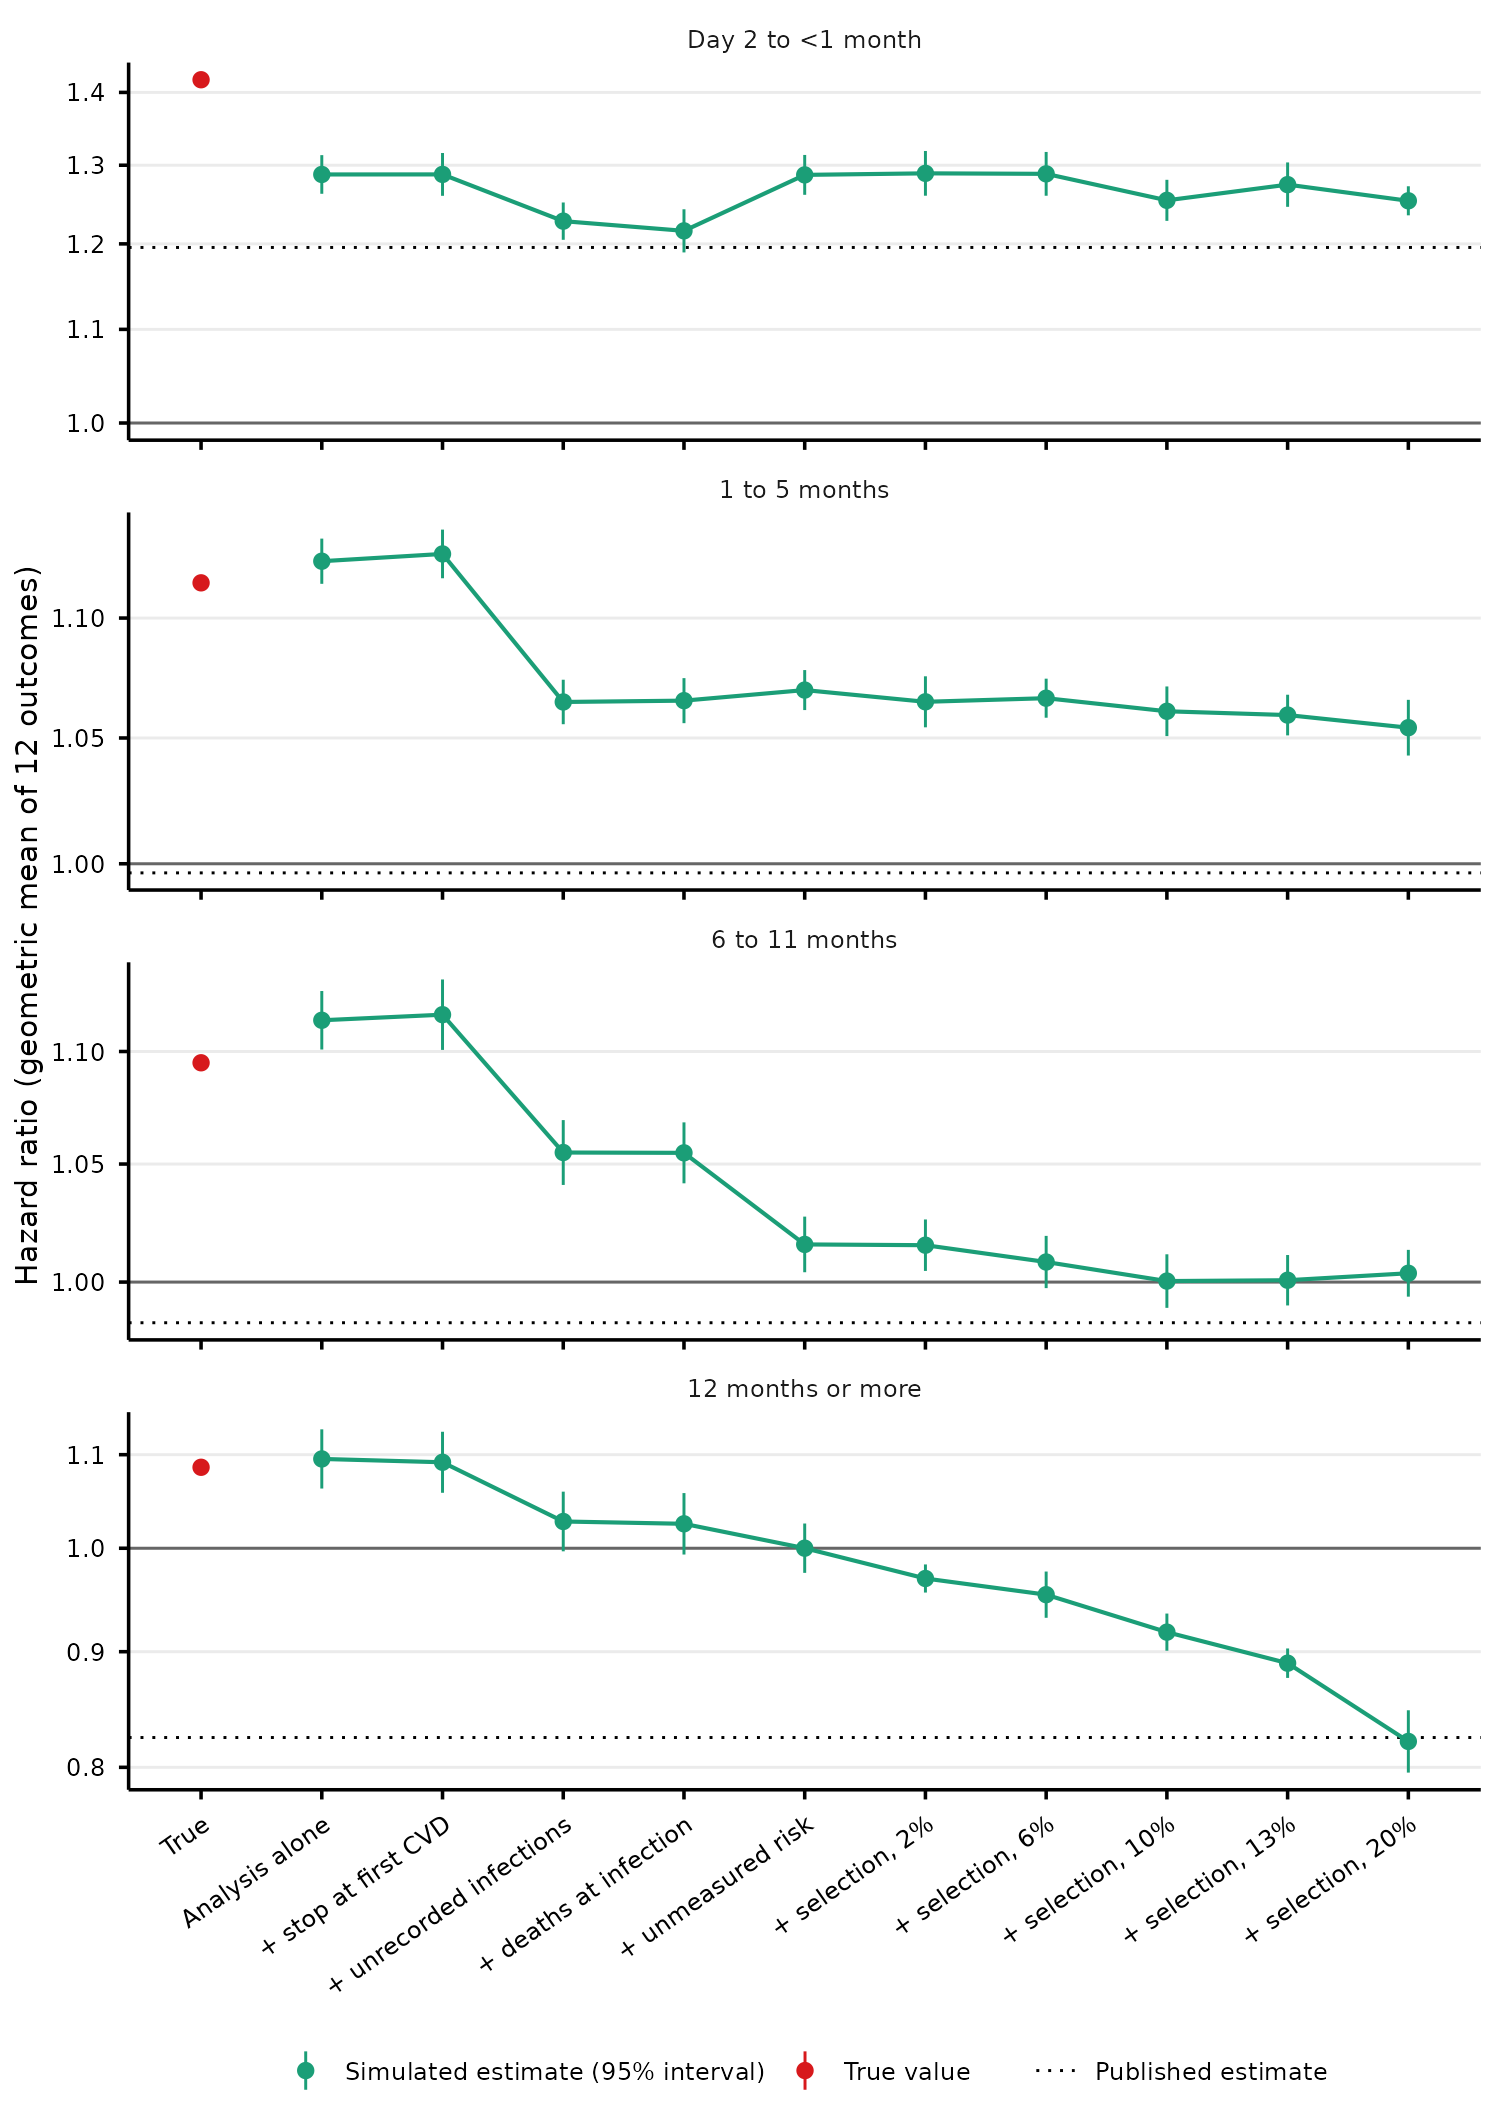
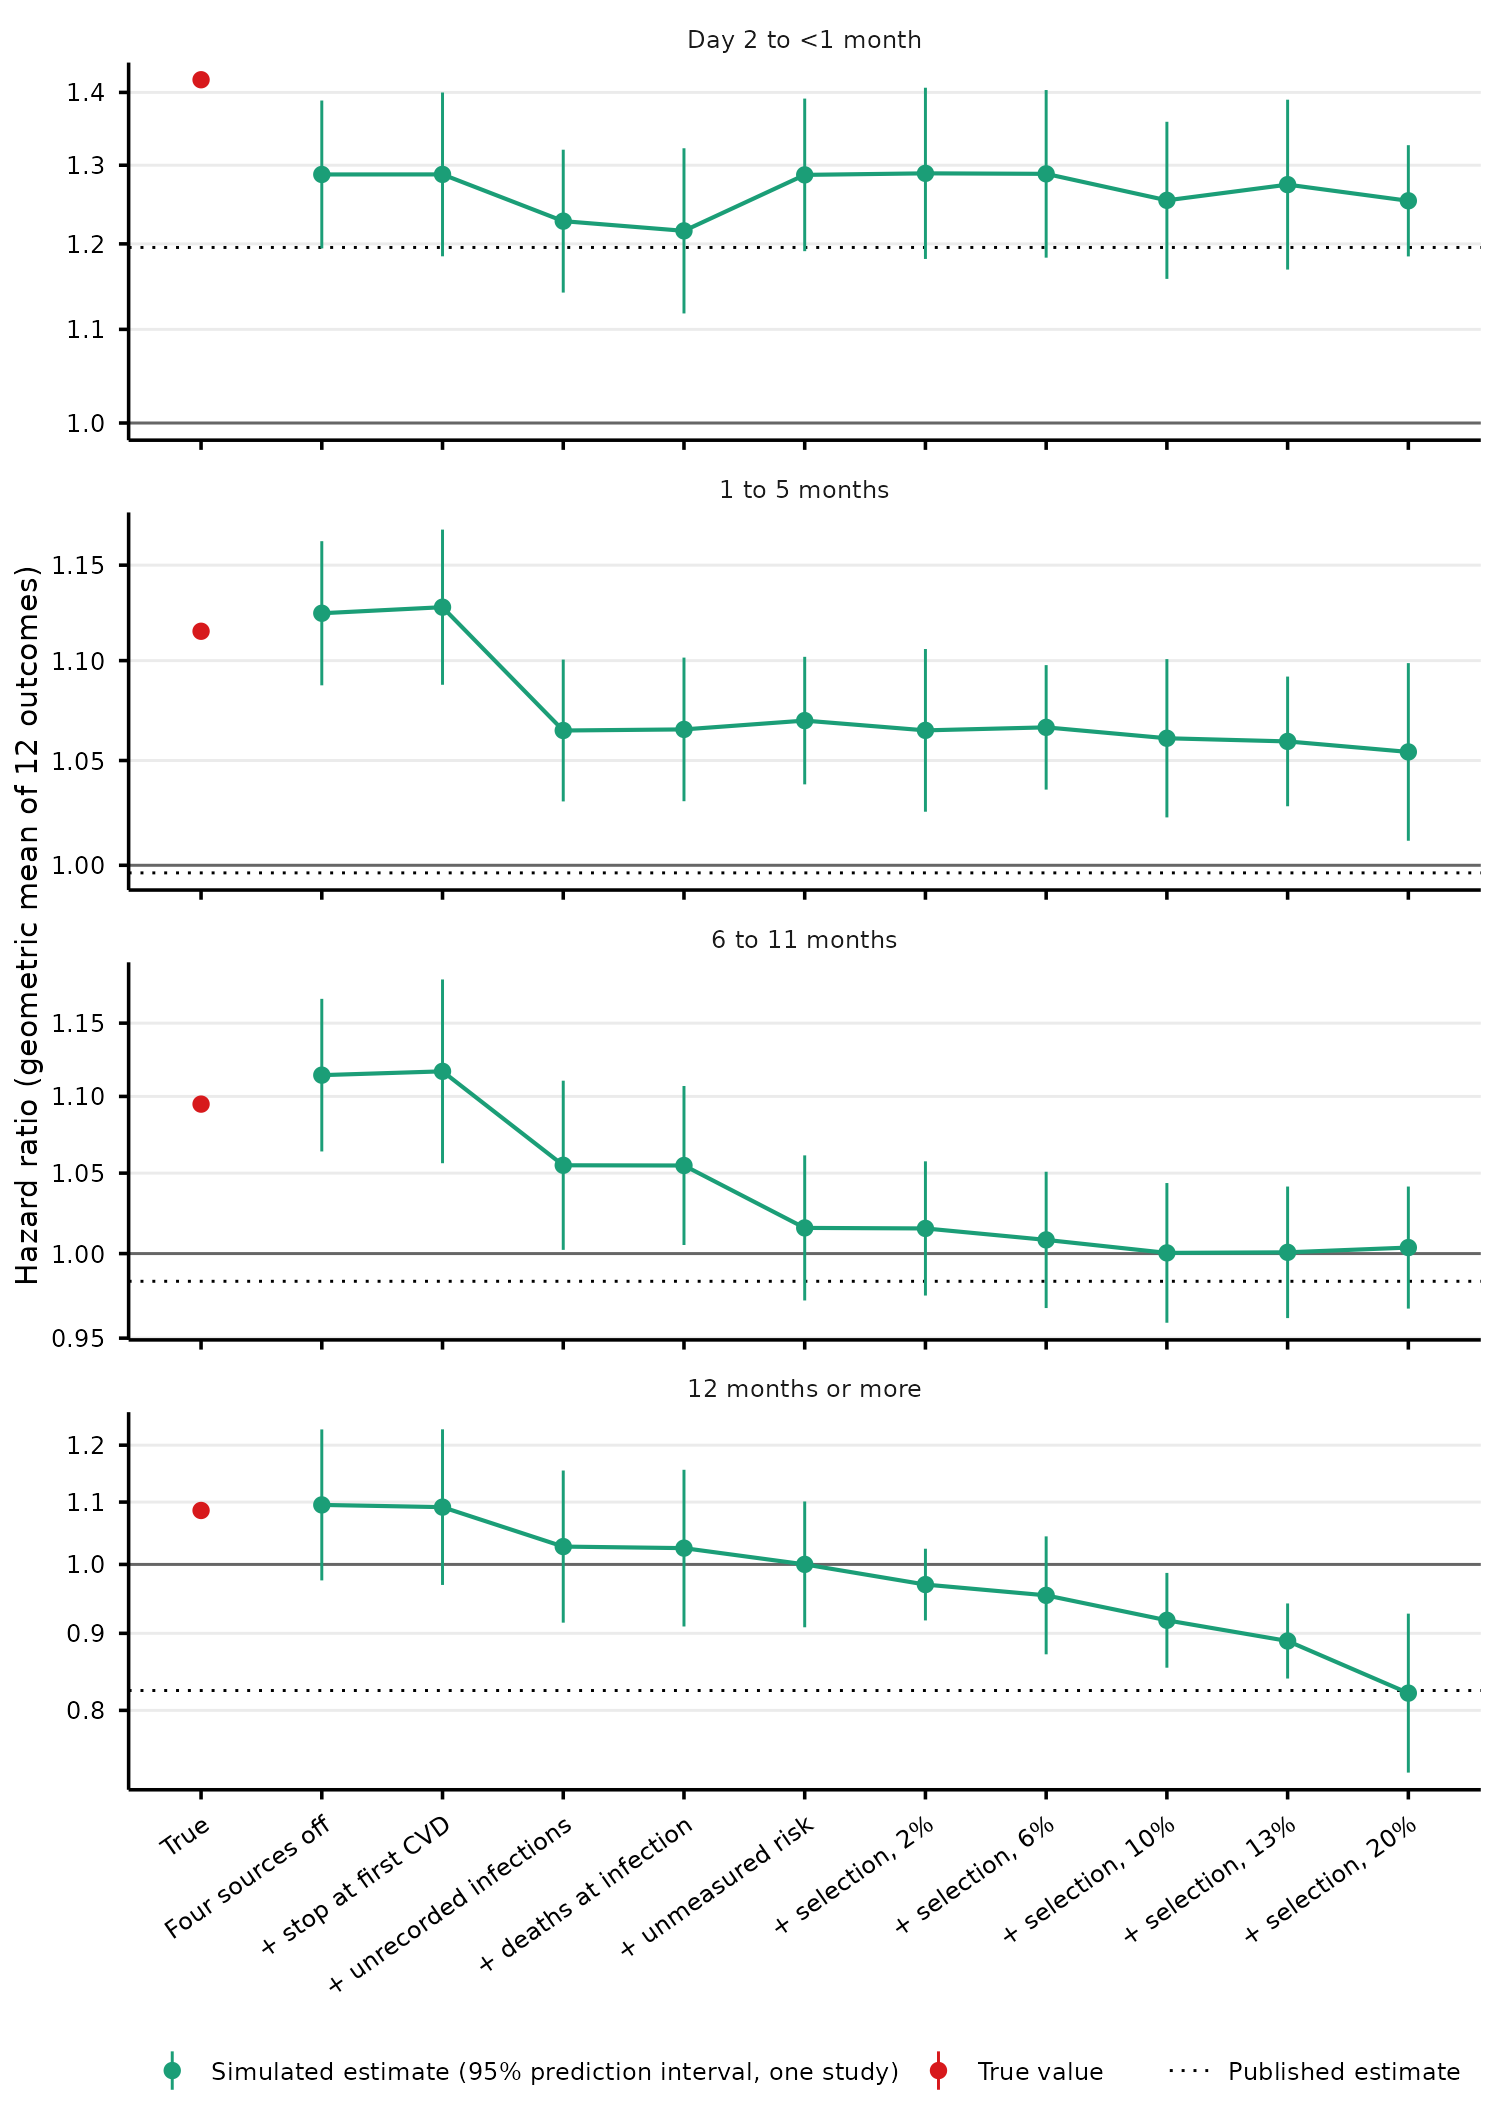
Explain each source of bias with 100-person examples; prediction intervals on the steps
Illustrations.R draws four icon arrays, 100 persons per group, for
selection into early infection, depletion of susceptibles, unrecorded
infections and deaths at infection. The numbers are illustrative; each
example gives the ratio of risks a study would see when the true ratio is
1.20. The README opens "Why the estimates fall below 1" with them. The step
figure of Bias.R now shows 95% prediction intervals for one study, and its
first step is "Four sources off".

diff --git a/README.md b/README.md
@@ -4,7 +4,7 @@
 
 Boyd et al. 2026, “SARS-CoV-2 infection and long-term risk of cardiovascular and renal morbidity” (EHJ Open, doi:10.1093/ehjopen/oeag121), report hazard ratios below 1 for most cardiovascular outcomes from 12 months after infection. Taken as causal, these estimates mean that infection protects against later cardiovascular disease. This repository holds the simulation behind our letter on that paper. In the simulation, infection increases cardiovascular risk, and an approximation of the study design still gives the published estimates.
 
-`Run.R` simulates 10 cohorts of 4,508,489 synthetic persons, one per member of the paper’s cardiovascular cohort. It analyses each cohort as the paper does, and compares the estimates with the published ones. `Norway.R`, a supplement, compares the result with Norwegian national data. `Bias.R` shows what each source of bias contributes. `README.qmd` reads every result in this README from `results/run.rds`, `results/bias.rds` and `results/norway.rds`.
+`Run.R` simulates 10 cohorts of 4,508,489 synthetic persons, one per member of the paper’s cardiovascular cohort. It analyses each cohort as the paper does, and compares the estimates with the published ones. `Norway.R`, a supplement, compares the result with Norwegian national data. `Bias.R` shows what each source of bias contributes. `Illustrations.R` draws four small examples of how each source of bias works. `README.qmd` reads every result in this README from the files that these scripts save in `results/`.
 
 The sections are:
 
@@ -175,21 +175,40 @@ The letter figure is [figures/forest_12m.png](figures/forest_12m.png). It shows 
 
 ## Why the estimates fall below 1
 
-`Bias.R` switches four sources of bias on and off in the simulated cohorts, and analyses each setting as the paper does:
+### How each source of bias works
 
-- **Stopping at the first CVD diagnosis:** the paper stops follow-up for every outcome at a person’s first diagnosis in any of the 15 cardiovascular groups. Off means each outcome is followed to its own first diagnosis.
-- **Unrecorded infections:** infections that testing did not record, which leave infected persons in the comparison group.
-- **Deaths at infection:** more probable at older ages and higher frailty, so they remove high-risk infected persons from follow-up.
-- **Unmeasured risk and selection:** differences in cardiovascular risk between persons of the same age that the analysis cannot see (frailty), and selection of lower-risk persons into infection before the Omicron wave.
+The four examples below use 100 persons per group, and illustrative numbers rather than simulation output. In each, infection multiplies every person’s risk of a CVD diagnosis by 1.20. Over the follow-up, a high-risk person has a 50% risk and a low-risk person a 5% risk. So the true ratio of risks is 1.20 in every example, and each example gives the ratio of risks that a study would see. This is simpler than the hazard ratios of the simulation, but the mechanisms are the same. `Illustrations.R` draws them.
 
-The figure starts from the paper’s analysis with all four sources off, then adds them one at a time. Each point is the geometric mean of the 12 outcomes over the 10 simulated cohorts.
+**Selection into early infection.** If persons at high risk took more care early in the pandemic, fewer of them were infected before the Omicron wave. Infection raises everyone’s risk, but the infected group starts with fewer high-risk persons. The study would see 0.79.
+
+![Selection into early infection](figures/illustration_selection.png)
+
+**Depletion of susceptibles.** Infection brings diagnoses forward, most of all in high-risk persons. A year later, the infected persons who are still free of CVD include fewer high-risk persons than the comparison group does. The study would see 1.15.
+
+![Depletion of susceptibles](figures/illustration_depletion.png)
+
+**Unrecorded infections.** About one third of infections in the Omicron wave were not recorded, so some infected persons stay in the comparison group. In the example, 50 of 150 infections are unrecorded. Their raised risk makes the comparison group look worse. The study would see 1.13.
+
+![Unrecorded infections](figures/illustration_unrecorded.png)
+
+**Deaths at infection.** Infection kills some of the frailest persons before they can be diagnosed. The infected group loses some of its highest-risk persons. The study would see 1.10.
+
+![Deaths at infection](figures/illustration_deaths.png)
+
+**Stopping at the first CVD diagnosis.** The paper stops follow-up for every outcome at a person’s first diagnosis in any of the 15 cardiovascular groups. It removes high-risk persons from both groups, so in the simulation it changes the estimates very little.
+
+### What each source does in the simulation
+
+`Bias.R` switches the four sources of bias on and off in the simulated cohorts, and analyses each setting as the paper does. Unmeasured risk and selection are switched together: frailty is the unmeasured risk, and selection works through it.
+
+The figure starts with the four sources off: the paper’s analysis of a simulated cohort in which all four are switched off. It then adds them one at a time. Each point is the geometric mean of the 12 outcomes over the 10 simulated cohorts. Each bar is the 95% prediction interval for one study of this size.
 
 ![The estimate as the sources of bias are added one at a time, per window](figures/bias_steps.png)
 
 | Step | Day 2 to \<1 month | 1 to 5 months | 6 to 11 months | 12 months or more |
 |:---|---:|---:|---:|---:|
 | True | 1.42 | 1.12 | 1.09 | 1.09 |
-| Analysis alone | 1.29 | 1.12 | 1.11 | 1.10 |
+| Four sources off | 1.29 | 1.12 | 1.11 | 1.10 |
 | \+ stop at first CVD | 1.29 | 1.13 | 1.12 | 1.09 |
 | \+ unrecorded infections | 1.23 | 1.06 | 1.06 | 1.03 |
 | \+ deaths at infection | 1.22 | 1.07 | 1.05 | 1.03 |
@@ -200,9 +219,9 @@ The figure starts from the paper’s analysis with all four sources off, then ad
 | \+ selection, 13% | 1.27 | 1.06 | 1.00 | 0.89 |
 | \+ selection, 20% | 1.25 | 1.05 | 1.00 | 0.82 |
 
-- **12 months or more:** the analysis alone gives about the true value (1.10 against 1.09). Unrecorded infections bring it to 1.03, unmeasured risk to 1.00, and selection to 0.82.
-- **1 to 5 and 6 to 11 months:** the largest step is unrecorded infections (to 1.06 and 1.06). The simulation ends at 1.05 and 1.00, against 1.00 and 0.98 published.
-- **Day 2 to \<1 month:** most of the fall happens in the analysis itself, before any source of bias (1.42 to 1.29).
+- **12 months or more:** with the four sources off, the estimate is about the true value (1.10 against 1.09). Unrecorded infections bring it to 1.03, unmeasured risk to 1.00, and selection to 0.82.
+- **1 to 5 and 6 to 11 months:** the largest step is unrecorded infections (to 1.06 and 1.06). The simulation ends at 1.05 and 1.00, against 1.00 and 0.98 published. At 1 to 5 months the published value is below the prediction interval of the last step (1.01 to 1.10): in that window the published geometric mean lies outside the simulation’s 95% prediction interval.
+- **Day 2 to \<1 month:** most of the fall happens with the four sources off, in the analysis itself (1.42 to 1.29).
 - **Stopping at the first CVD diagnosis,** added first, changes the estimate by at most 0.3% in any window.
 
 Frailty is the cardiovascular risk that age does not explain. Without selection, persons with a recorded infection before the Omicron wave have 1.9% higher mean frailty than persons with a recorded infection later. Each selection step gives the resulting difference: at 2% lower mean frailty, the estimate at 12 months or more is already below 1.
@@ -350,8 +369,9 @@ The NIPH/FHI table has 5 more diagnosis groups. `Norway.R` does not use them:
 
 1.  Run `Rscript Run.R` from the repository root. It needs R 4.6 with data.table, ggplot2, patchwork and knitr.
 2.  Run `Rscript Bias.R` from the repository root. It reads `results/run.rds`, needs R 4.6 with data.table, ggplot2 and knitr, and simulates 130 cohorts.
-3.  Run `Rscript Norway.R` from the repository root. It reads `results/run.rds`, and needs R 4.6 with data.table, ggplot2, knitr, MASS, readxl and csdata.
-4.  Run `quarto render README.qmd` to rebuild this README from `results/run.rds`, `results/bias.rds` and `results/norway.rds`.
+3.  Run `Rscript Illustrations.R` from the repository root. It needs R 4.6 with data.table, ggplot2 and knitr.
+4.  Run `Rscript Norway.R` from the repository root. It reads `results/run.rds`, and needs R 4.6 with data.table, ggplot2, knitr, MASS, readxl and csdata.
+5.  Run `quarto render README.qmd` to rebuild this README from `results/run.rds`, `results/bias.rds`, `results/illustrations.rds` and `results/norway.rds`.
 
 `Run.R` sets the model in its CFG section, and sources the functions in `R/functions.R`. It checks the md5 of the 3 SSI files in `data/ssi/`. It stops if a value in CFG differs from the SSI file that it comes from. It prints its results, draws the 5 figures into `figures/`, and saves the results to `results/run.rds`.
 
@@ -364,13 +384,15 @@ In one measured run with 2 workers, it took 657 seconds on a 20-core Linux machi
 | `Run.R` | The model settings, the published values with their sources, the analysis and the output. |
 | `R/functions.R` | The simulation, the analysis and the cohort description. |
 | `Bias.R` | The contributions of the sources of bias, and the selection that the result needs. |
+| `Illustrations.R` | The four examples with 100 persons per group. |
 | `Norway.R` | The comparison with Norwegian national data. |
 | `README.qmd` | The source of this README. |
 | `data/ssi/` | The SSI source files, byte for byte, with their sources and md5s. |
 | `data/fhi/` | The NIPH/FHI source file, byte for byte, with its source and md5. |
-| `figures/` | The 5 figures that `Run.R` draws, and the 1 each that `Bias.R` and `Norway.R` draw. |
+| `figures/` | The 5 figures that `Run.R` draws, the 4 that `Illustrations.R` draws, and the 1 each that `Bias.R` and `Norway.R` draw. |
 | `results/run.rds` | The results that `Run.R` saves and `README.qmd` reads. |
 | `results/bias.rds` | The results that `Bias.R` saves and `README.qmd` reads. |
+| `results/illustrations.rds` | The results that `Illustrations.R` saves and `README.qmd` reads. |
 | `results/norway.rds` | The results that `Norway.R` saves and `README.qmd` reads. |
 
 ## Licence
